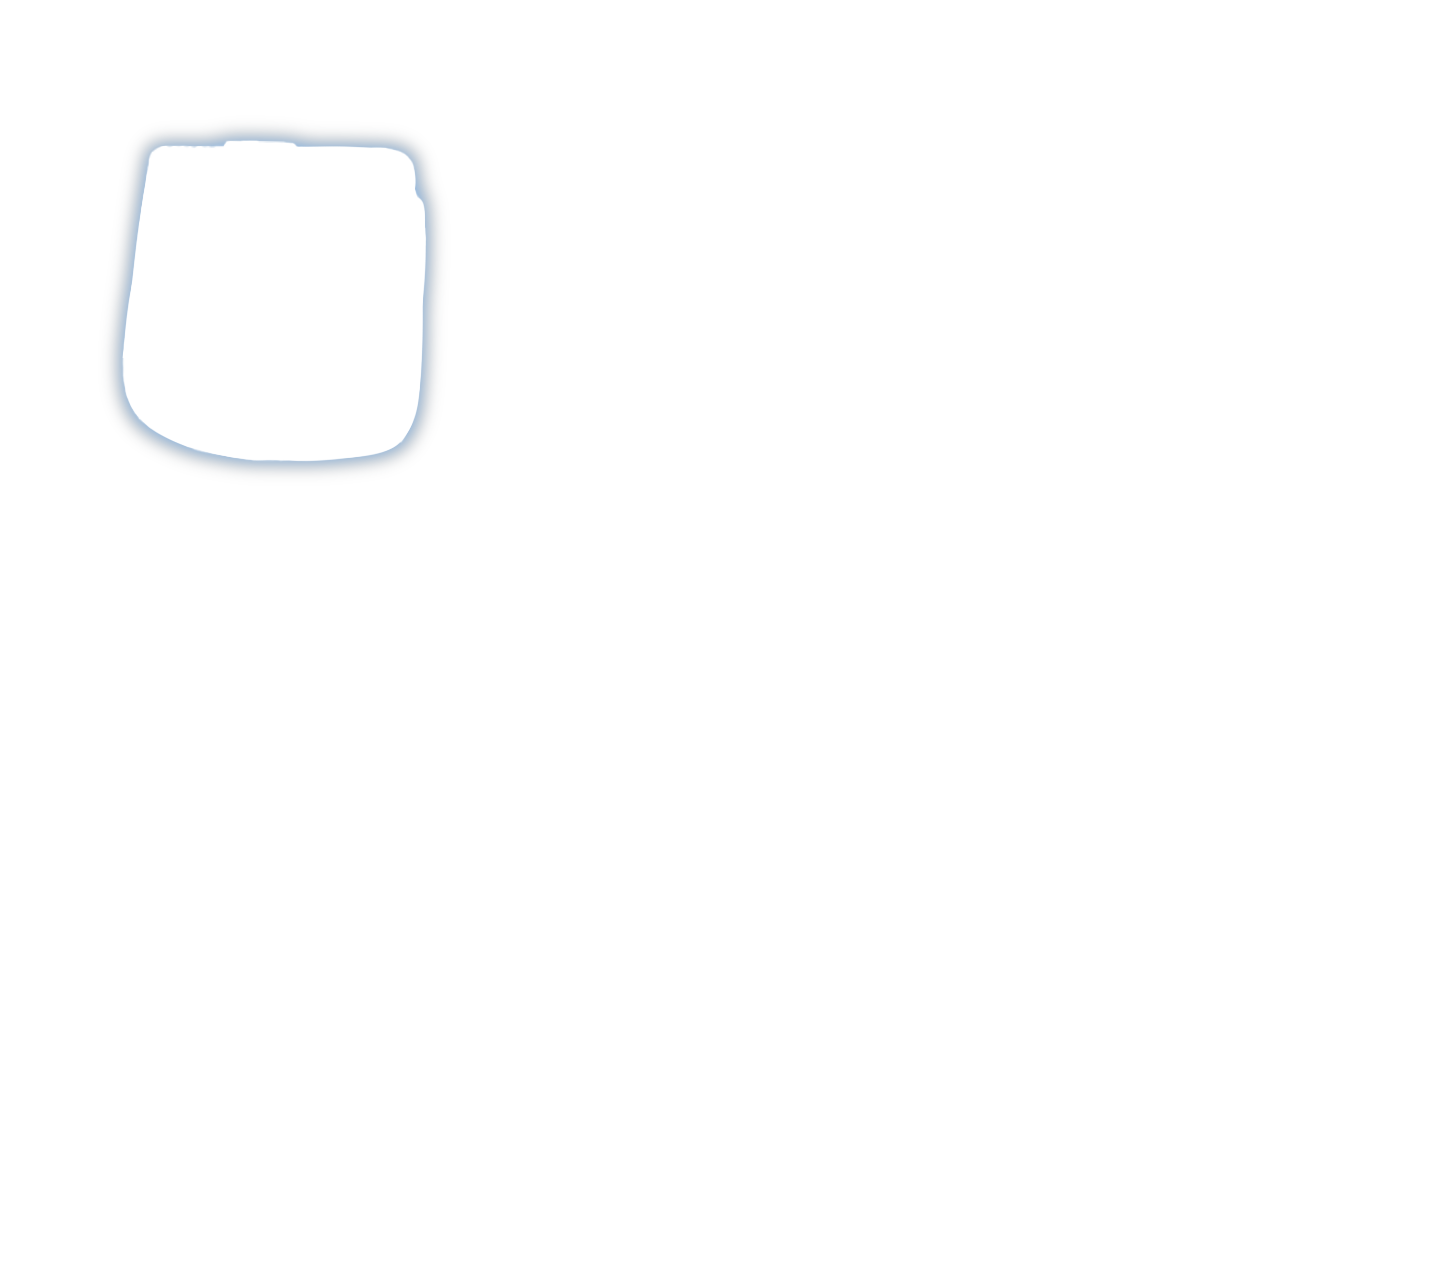
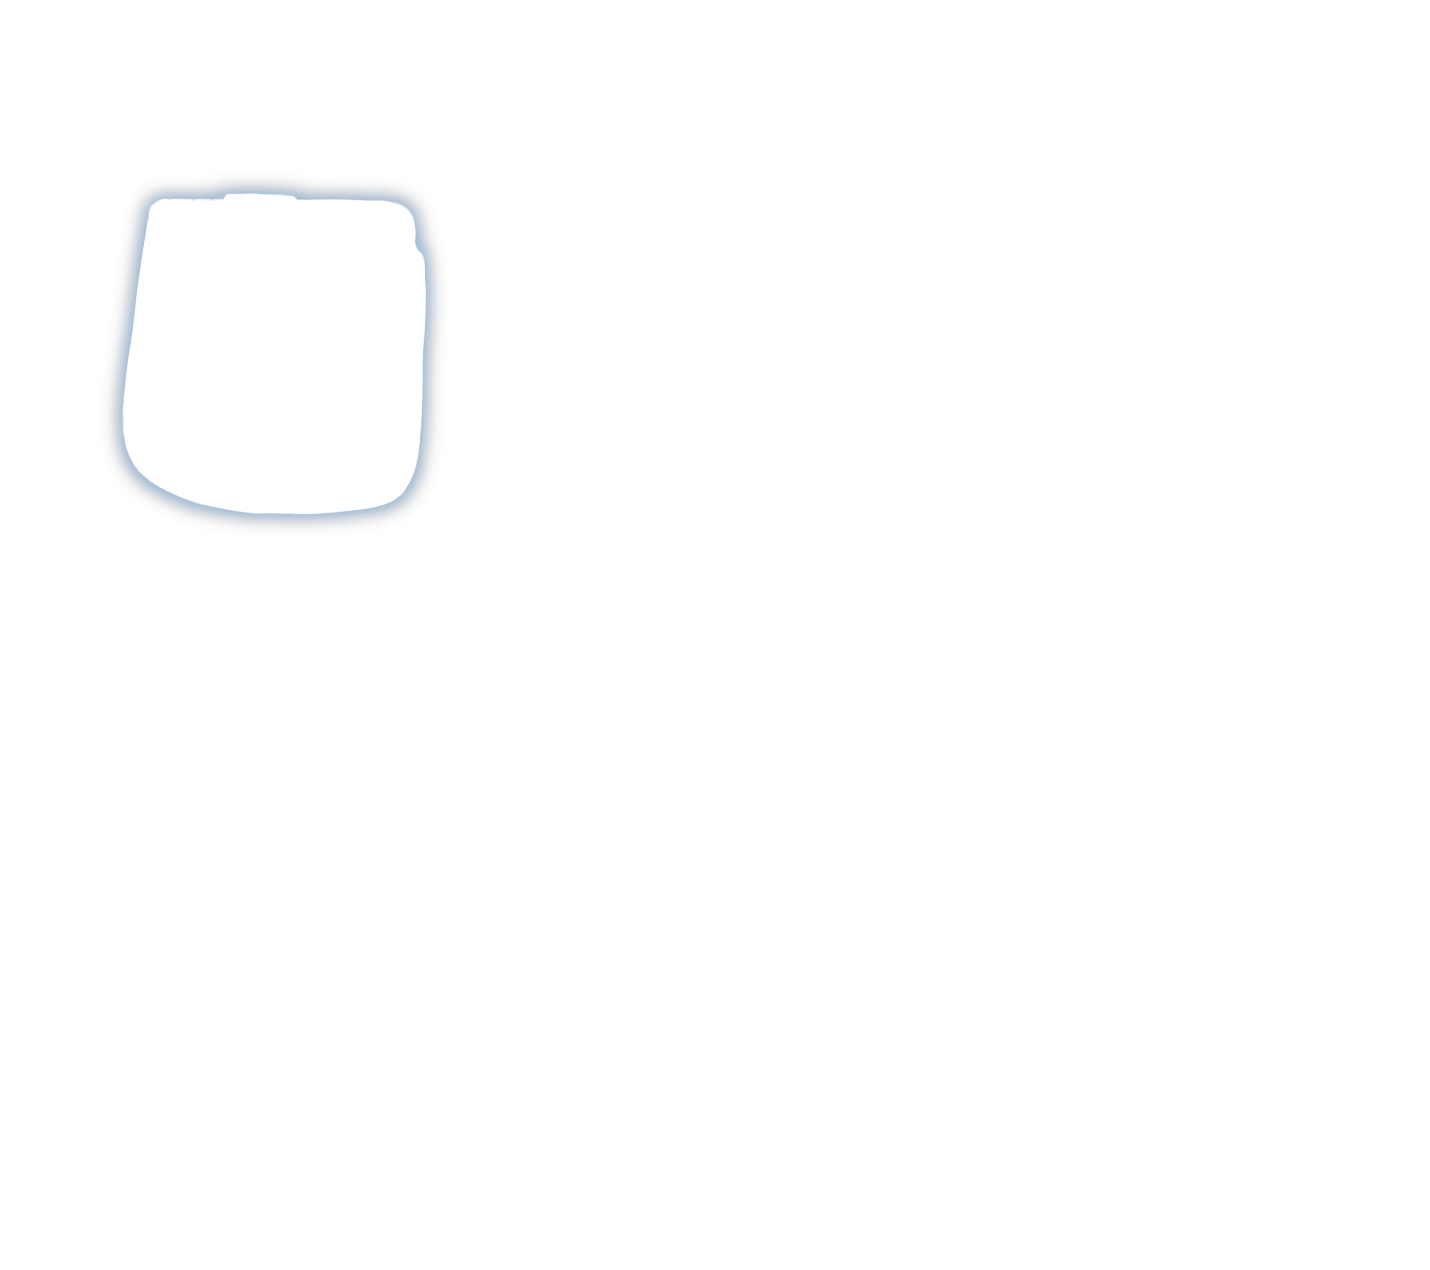
シルエット全体を20px下にシフト（微調整）
前回の-55pxが行き過ぎたため+20px戻し、合計-35pxのシフトに調整。
style.css・pad_by_css.pyを更新しpadded_*_s.pngを再生成。

Changed region(s): [[0.0615, 0.0921, 0.3077, 0.4299]]

diff --git a/style.css b/style.css
@@ -253,10 +253,10 @@ body {
 }
 
 
-/* 各ターゲットの位置とサイズ（all.PNGに合わせて補正済み + 全体-55px上シフト） */
+/* 各ターゲットの位置とサイズ（all.PNGに合わせて補正済み + 全体-35px上シフト） */
 #target-1 {
     left: 375.5px;
-    top: 52.3px;
+    top: 72.3px;
     width: 115.7px;
     height: 122.8px;
 }
@@ -264,7 +264,7 @@ body {
 /* bag (target-2) */
 #target-2 {
     left: 681.6px;
-    top: 109.0px;
+    top: 129.0px;
     width: 119.4px;
     height: 42.7px;
 }
@@ -272,7 +272,7 @@ body {
 /* connect (target-3) */
 #target-3 {
     left: 661.6px;
-    top: 124.5px;
+    top: 144.5px;
     width: 29.5px;
     height: 55.9px;
 }
@@ -280,7 +280,7 @@ body {
 /* filter (target-4) */
 #target-4 {
     left: 452.2px;
-    top: 162.7px;
+    top: 182.7px;
     width: 31.7px;
     height: 33.6px;
 }
@@ -288,7 +288,7 @@ body {
 /* humidifier1 (target-5) */
 #target-5 {
     left: 545.2px;
-    top: 89.0px;
+    top: 109.0px;
     width: 65.0px;
     height: 93.7px;
 }
@@ -296,7 +296,7 @@ body {
 /* humidifier2 (target-6) */
 #target-6 {
     left: 547.8px;
-    top: 77.7px;
+    top: 97.7px;
     width: 60.5px;
     height: 39.3px;
 }
@@ -304,7 +304,7 @@ body {
 /* kairo1 (target-7) */
 #target-7 {
     left: 374.0px;
-    top: 161.9px;
+    top: 181.9px;
     width: 450.5px;
     height: 226.4px;
 }
@@ -312,7 +312,7 @@ body {
 /* kairo2 (target-8) */
 #target-8 {
     left: 460.5px;
-    top: 68.2px;
+    top: 88.2px;
     width: 107.3px;
     height: 159.1px;
 }

diff --git a/pad_by_css.py b/pad_by_css.py
@@ -2,14 +2,14 @@ from PIL import Image, ImageChops, ImageStat
 import os
 
 targets = {
-    1: {"left": 375.5, "top": 52.3, "width": 115.7, "height": 122.8},
-    2: {"left": 681.6, "top": 109.0, "width": 119.4, "height": 42.7},
-    3: {"left": 661.6, "top": 124.5, "width": 29.5, "height": 55.9},
-    4: {"left": 452.2, "top": 162.7, "width": 31.7, "height": 33.6},
-    5: {"left": 545.2, "top": 89.0, "width": 65.0, "height": 93.7},
-    6: {"left": 547.8, "top": 77.7, "width": 60.5, "height": 39.3},
-    7: {"left": 374.0, "top": 161.9, "width": 450.5, "height": 226.4},
-    8: {"left": 460.5, "top": 68.2, "width": 107.3, "height": 159.1}
+    1: {"left": 375.5, "top": 72.3, "width": 115.7, "height": 122.8},
+    2: {"left": 681.6, "top": 129.0, "width": 119.4, "height": 42.7},
+    3: {"left": 661.6, "top": 144.5, "width": 29.5, "height": 55.9},
+    4: {"left": 452.2, "top": 182.7, "width": 31.7, "height": 33.6},
+    5: {"left": 545.2, "top": 109.0, "width": 65.0, "height": 93.7},
+    6: {"left": 547.8, "top": 97.7, "width": 60.5, "height": 39.3},
+    7: {"left": 374.0, "top": 181.9, "width": 450.5, "height": 226.4},
+    8: {"left": 460.5, "top": 88.2, "width": 107.3, "height": 159.1}
 }
 
 parts = ["respirator", "bag", "connect", "filter", "humidifier1", "humidifier2", "kairo1", "kairo2"]
